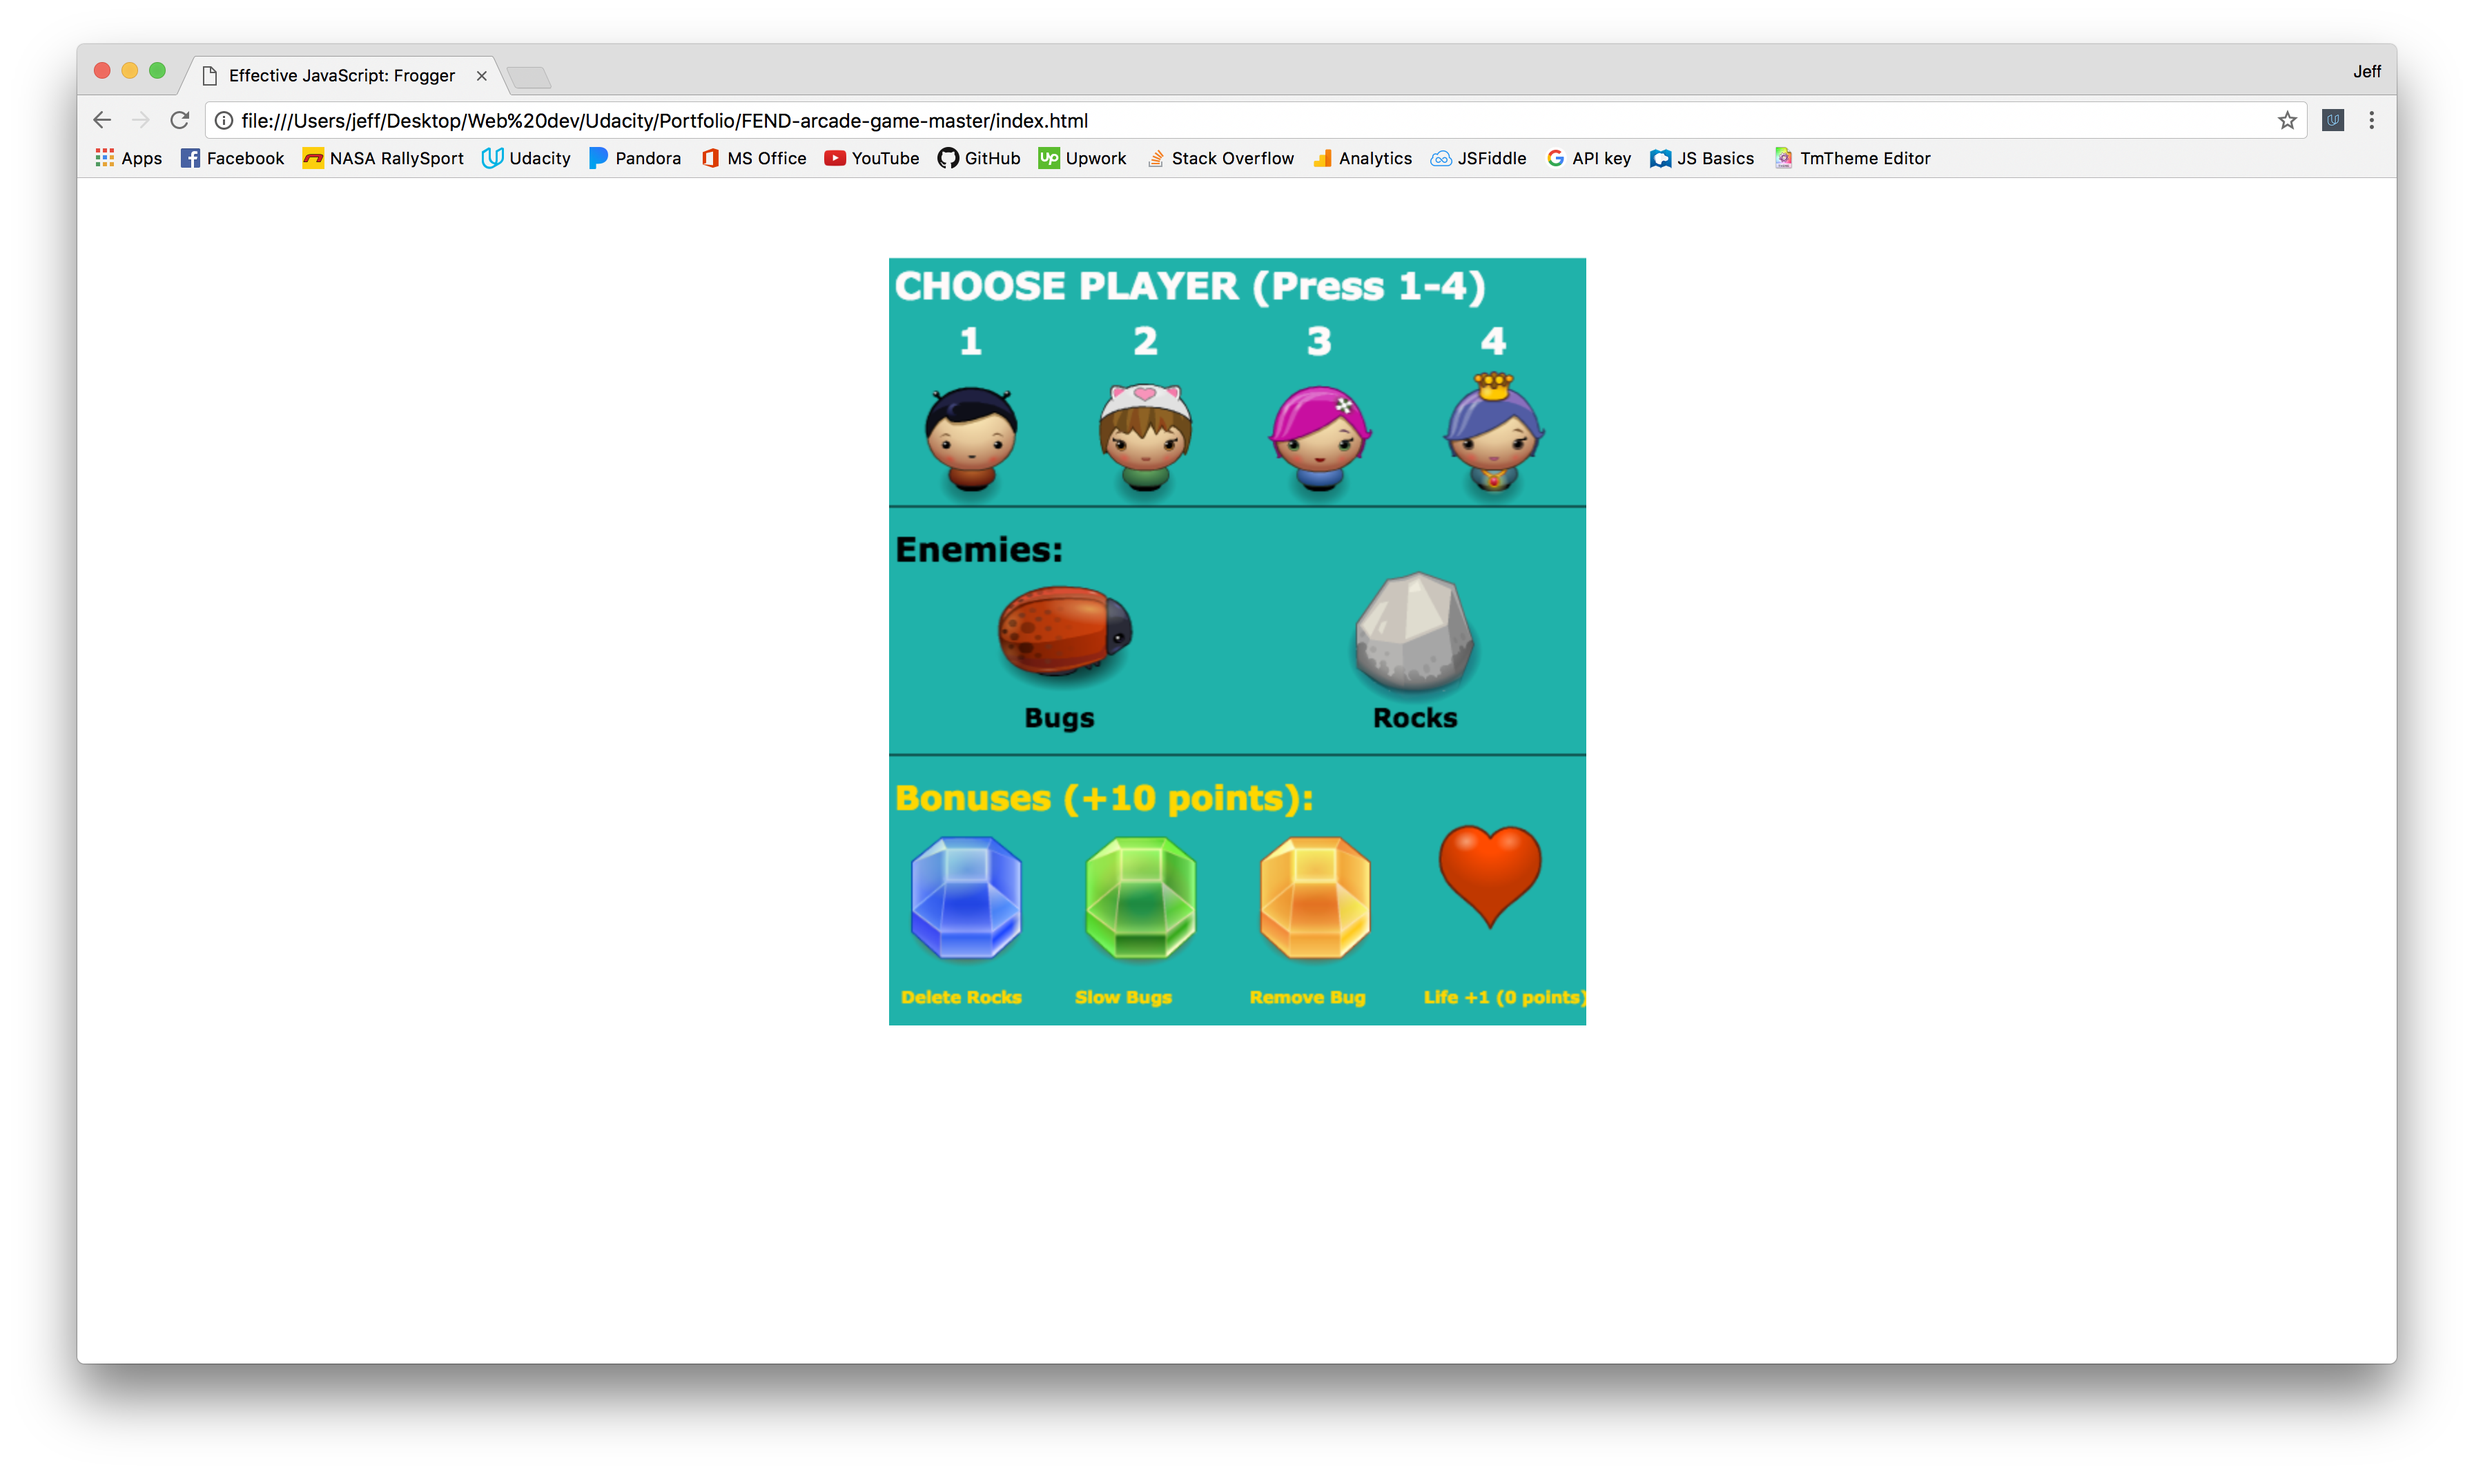
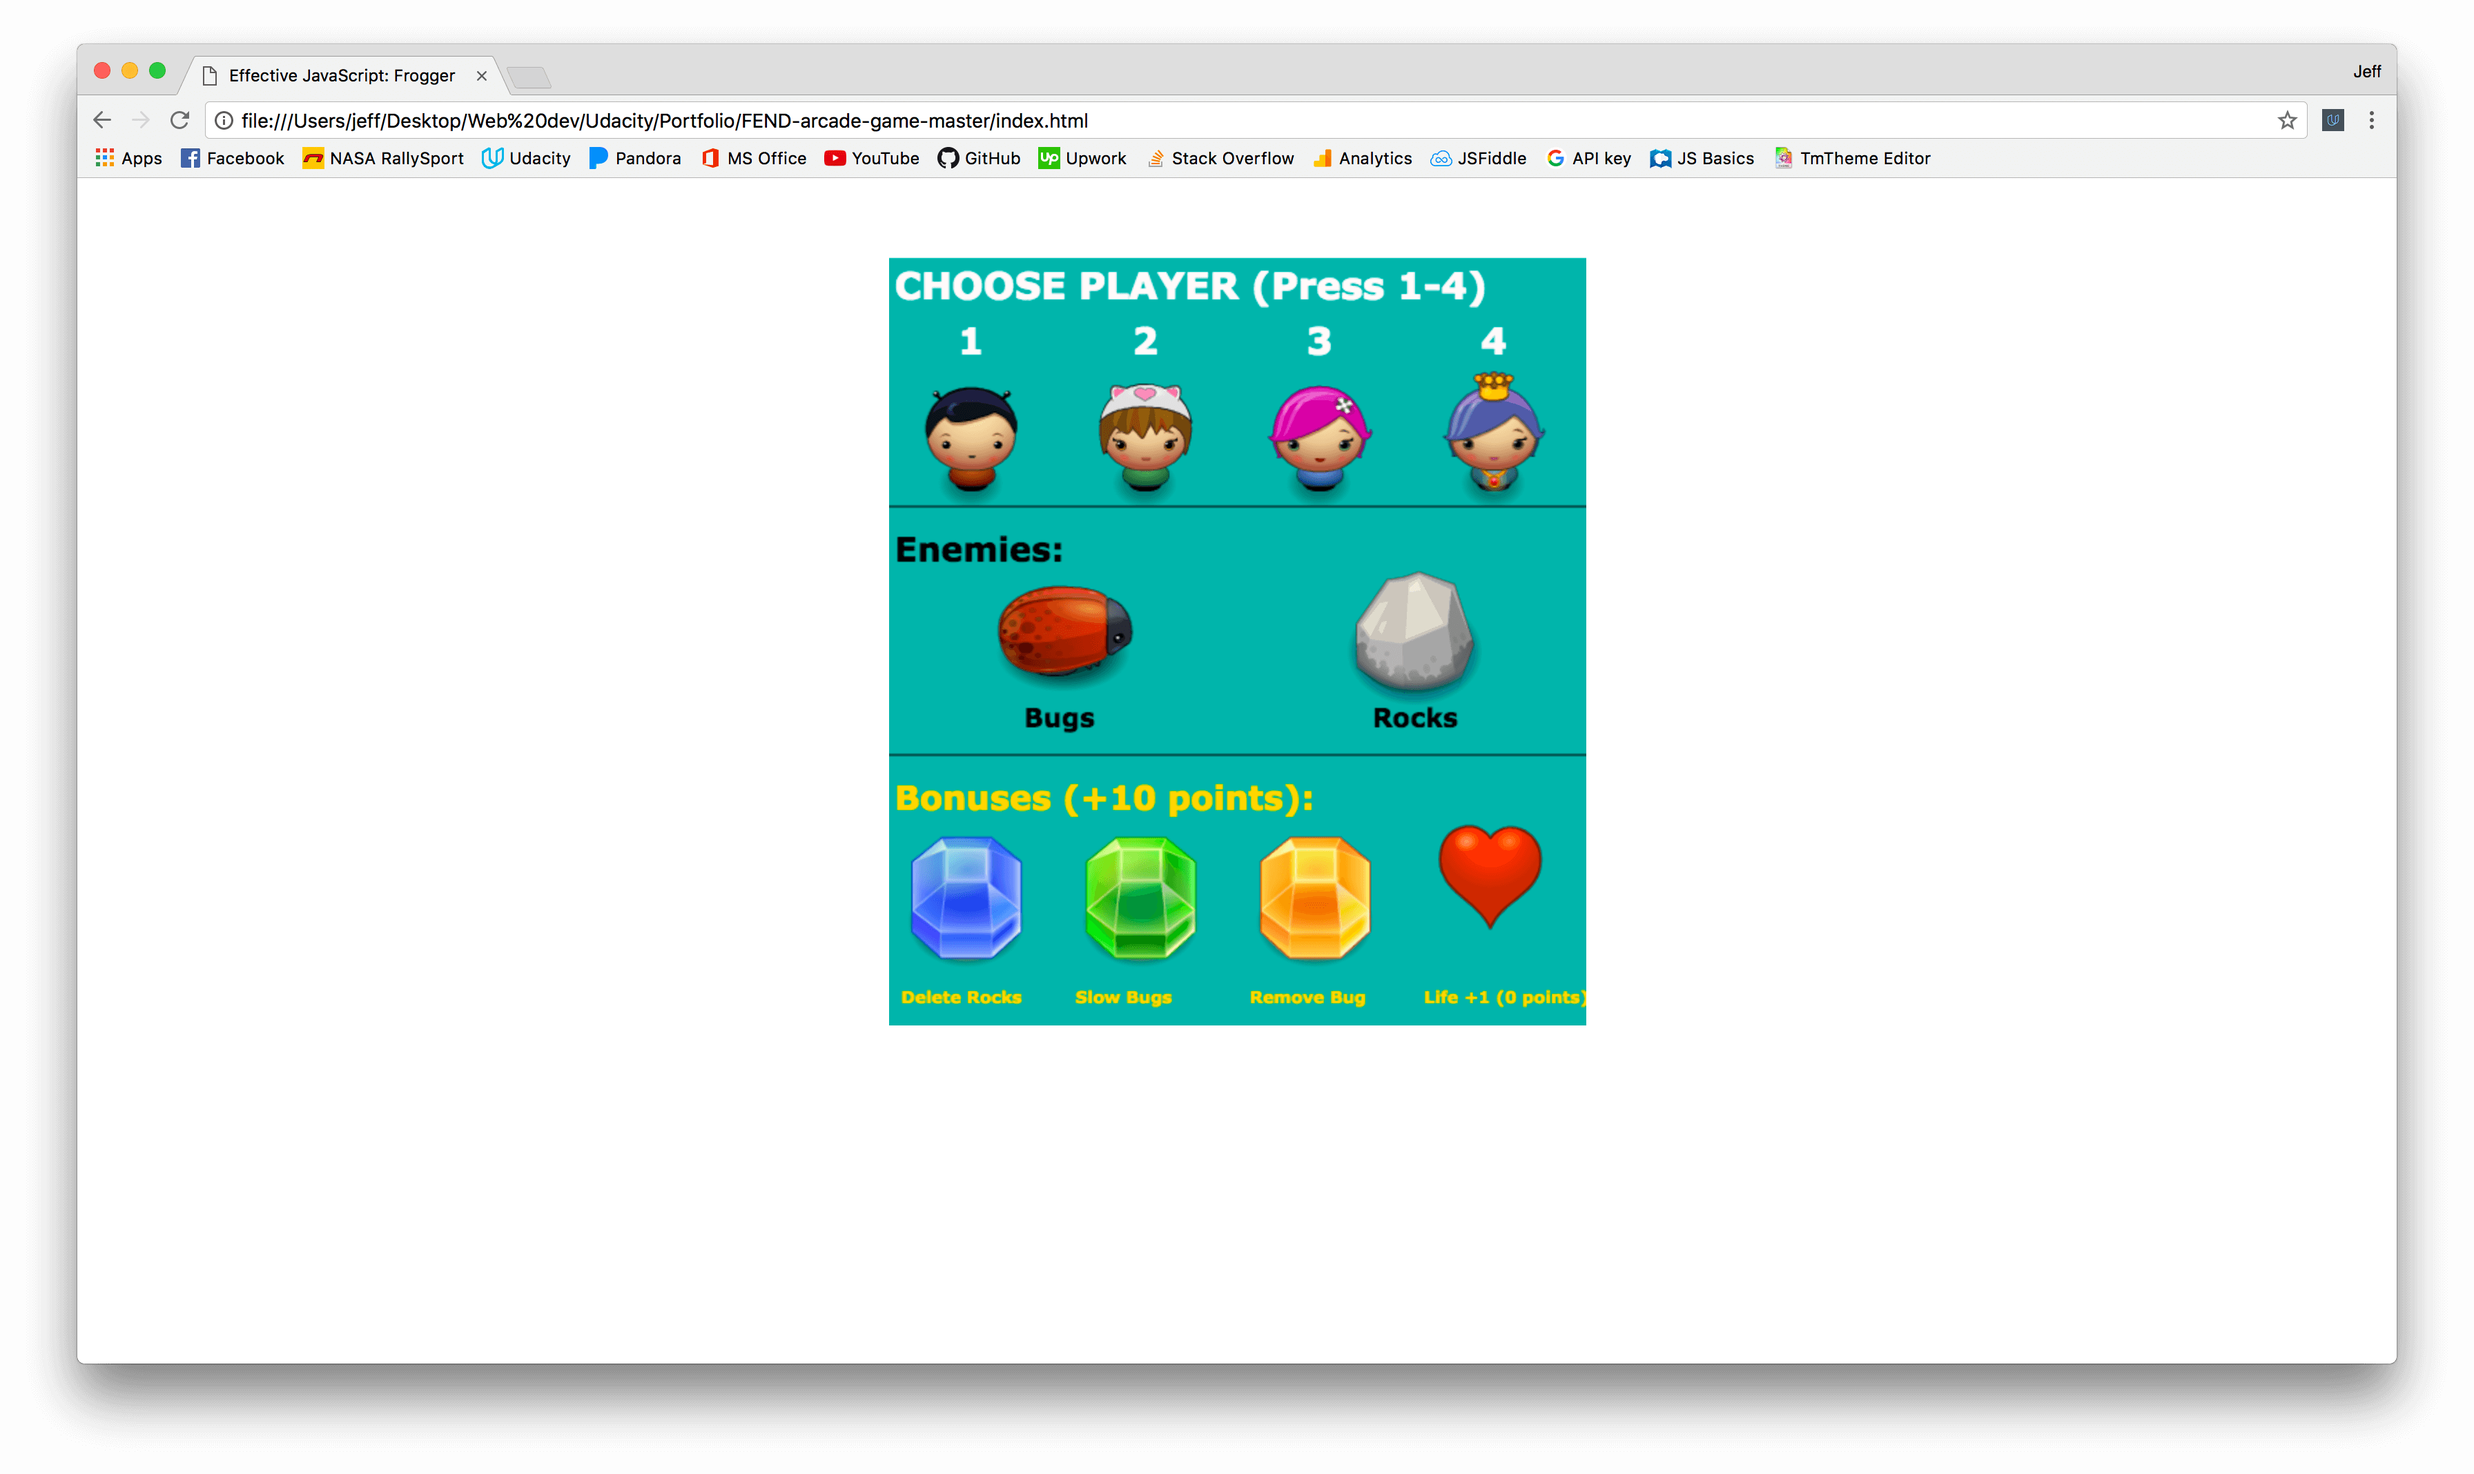
Optimized images
Optimized images

Changed region(s): [[0.3438, 0.1545, 0.6562, 0.7107], [0.4062, 0.0927, 0.4375, 0.1236]]

diff --git a/js/resumeBuilder.js b/js/resumeBuilder.js
@@ -15,7 +15,7 @@ var bio = {
   ],
   "welcomeMessage" : "Front-end Web Developer and race car driver!",
   "skills" : ["HTML", "CSS", "Responsive CSS Design", "JavaScript", "JQuery", "AJAX", "KnockoutJS", "NodeJS", "Bootstrap", "Zurb Foundation CSS", "ReactJS", "Adobe Creative Cloud: Photoshop, Illustrator, inDesign"],
-  "biopic" : "images/racing.jpg"
+  "biopic" : "images/racing-min.jpg"
 };
 
 var data = "%data%";
@@ -173,7 +173,7 @@ education.display();
     "title": "Activity Randomizer",
     "dates": "April 2017",
     "description": "Ever wanted to go do something instead of sit around and be boring, but never quite sure what to do? Here is the solution! A webpage that randomly picks activities to do! (Built using Foundation CSS).",
-    "images": ["images/Activity Randomizer2 copy.png"],
+    "images": ["images/Activity Randomizer2 copy-min.png"],
     "url": "https://jeffberlin.github.io/Activity-Randomizer/picker.html"
   },
   {
